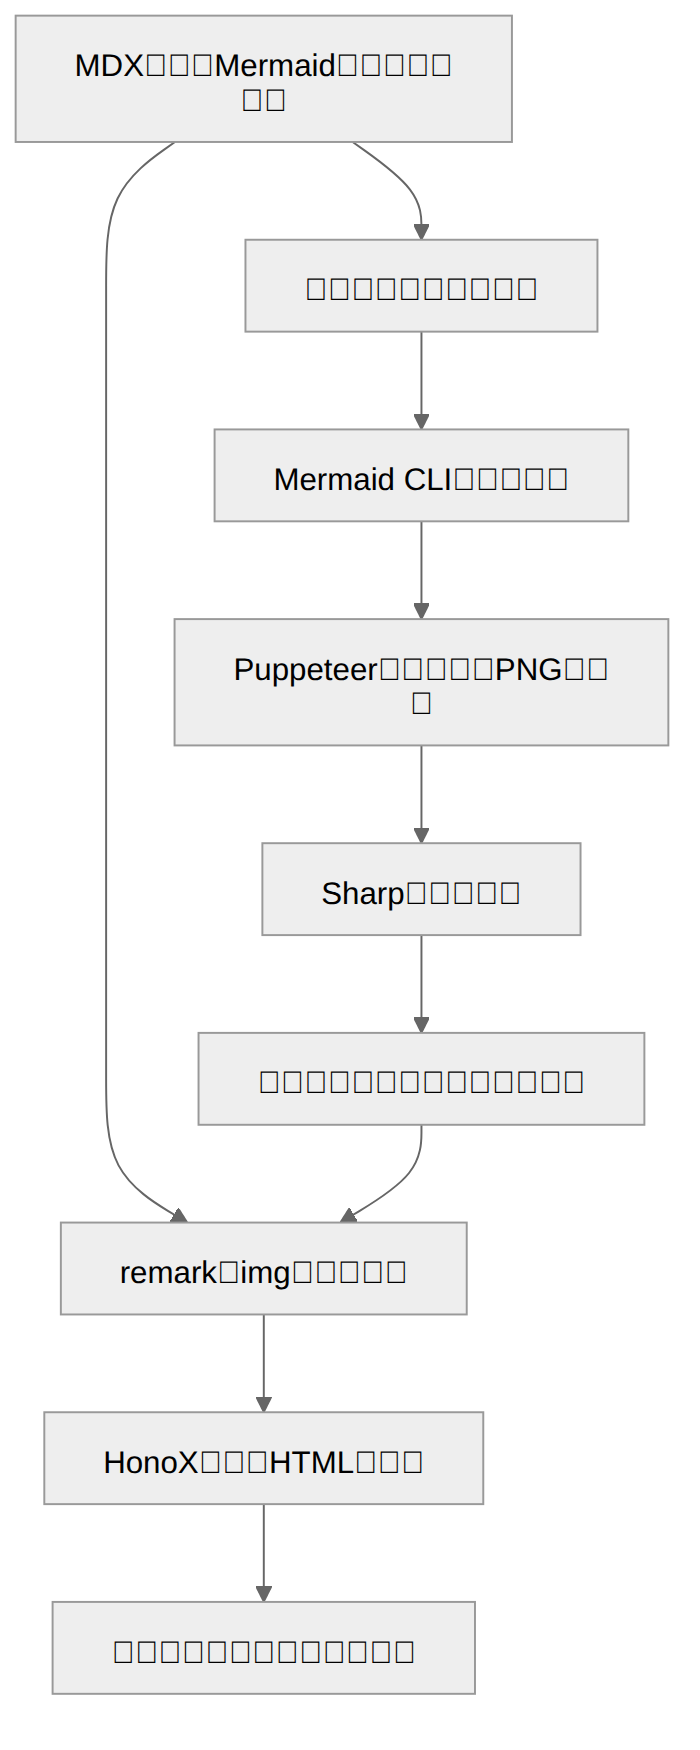
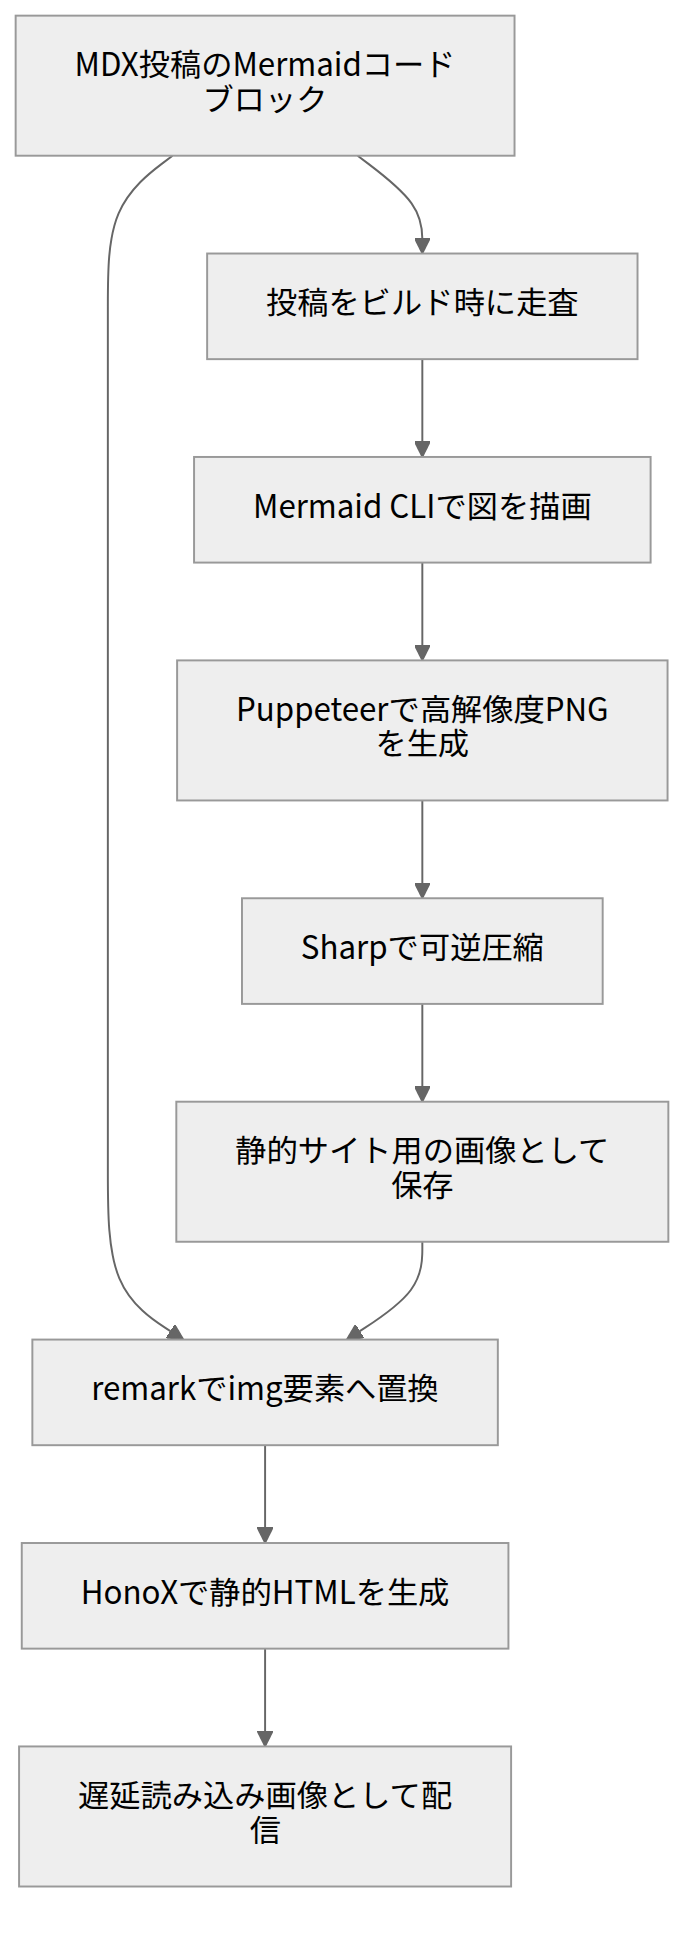
generate by honox ssg 2026/08/21 02:36:12

diff --git a/docs/posts/2026-08-21-post/index.html b/docs/posts/2026-08-21-post/index.html
@@ -1,6 +1,6 @@
 <!DOCTYPE html><html lang="ja"><head><meta charset="UTF-8"/><meta name="viewport" content="width=device-width, initial-scale=1.0"/><meta name="description" content="MDX投稿のMermaidコードブロックをSSGビルド時にPNGへ変換・可逆圧縮し、遅延読み込み画像として配信する仕組みと使い方を説明します。"/><meta property="og:title" content="Mermaid図のビルド時PNG出力に対応しました | GeroOf MyPage."/><meta property="og:description" content="MDX投稿のMermaidコードブロックをSSGビルド時にPNGへ変換・可逆圧縮し、遅延読み込み画像として配信する仕組みと使い方を説明します。"/><meta property="og:type" content="article"/><meta property="og:url" content="https://geroof.github.io/posts/2026-08-21-post/"/><meta property="og:site_name" content="GeroOf MyPage."/><meta property="og:locale" content="ja_JP"/><meta property="og:image" content="https://geroof.github.io/assets/blog/authors/og-image.svg"/><meta name="twitter:card" content="summary_large_image"/><meta name="twitter:title" content="Mermaid図のビルド時PNG出力に対応しました | GeroOf MyPage."/><meta name="twitter:description" content="MDX投稿のMermaidコードブロックをSSGビルド時にPNGへ変換・可逆圧縮し、遅延読み込み画像として配信する仕組みと使い方を説明します。"/><meta name="twitter:image" content="https://geroof.github.io/assets/blog/authors/og-image.svg"/><link rel="apple-touch-icon" sizes="180x180" href="/favicon/apple-touch-icon.png"/><link rel="icon" type="image/png" sizes="32x32" href="/favicon/favicon-32x32.png"/><link rel="icon" type="image/png" sizes="16x16" href="/favicon/favicon-16x16.png"/><link rel="manifest" href="/favicon/site.webmanifest"/><link rel="mask-icon" href="/favicon/safari-pinned-tab.svg" color="#000000"/><link rel="icon" href="/favicon.ico"/><link rel="shortcut icon" href="/favicon/favicon.ico"/><meta name="msapplication-TileColor" content="#000000"/><meta name="msapplication-config" content="/favicon/browserconfig.xml"/><meta name="theme-color" content="#000"/><link rel="alternate" type="application/rss+xml" href="/rss.xml"/><meta name="keywords" content="Mermaid,MDX,HonoX,SSG,PNG,画像最適化"/><link rel="canonical" href="https://geroof.github.io/posts/2026-08-21-post/"/><link href="/static/style-C5CUSrp0.css" rel="stylesheet"/><title>Mermaid図のビルド時PNG出力に対応しました | GeroOf MyPage.</title><meta name="google-site-verification" content="VG5yARpF3Tg_JtadQYHvqgpvUjtznlNHLKcnVRU5GkY"/><script type="application/ld+json">{"@context":"https://schema.org","@type":"WebSite","name":"GeroOf MyPage.","url":"https://geroof.github.io/","publisher":{"@type":"Person","name":"GeroOf","url":"https://geroof.github.io/about/","sameAs":["https://github.com/Geroof","https://twitter.com/Geroof","https://bsky.app/profile/geroof.bsky.social"]}}</script><script type="application/ld+json">{"@context":"https://schema.org","@type":"Article","headline":"Mermaid図のビルド時PNG出力に対応しました","image":"https://geroof.github.io/assets/blog/authors/og-image.svg","datePublished":"2026-08-21","author":[{"@type":"Person","name":"GeroOf","url":"https://geroof.github.io/about/","sameAs":["https://github.com/Geroof","https://twitter.com/Geroof","https://bsky.app/profile/geroof.bsky.social"]}]}</script><script async="" src="https://www.googletagmanager.com/gtag/js?id=G-WXV3Q4JFEX"></script></head><body> <script>window.dataLayer = window.dataLayer || [];function gtag(){dataLayer.push(arguments);}gtag('js', new Date());gtag('config', 'G-WXV3Q4JFEX');</script><div class="container mx-auto p-2 prose prose-neutral prose-sm md:prose:sm lg:prose-lg xl:prose-xl"><header><nav aria-label="Site navigation"><div><p class="!text-5xl !font-extrabold !mt-0 !mb-10 !leading-tight"><a href="/">GeroOf MyPage.</a></p></div><div class="flex items-center h-8"><img class="w-6 h-6 rounded-full mr-2" src="/assets/blog/authors/geroof.png" alt="GeroOfのプロフィール画像" width="24" height="24"/><span class="text-lg font-bold">GeroOf</span></div></nav></header><main><div><section><div><h1 class="!text-3xl !font-bold !mt-10 !mb-4">Mermaid図のビルド時PNG出力に対応しました</h1></div><div><p class="!font-bold !text-base !mt-6 !mb-2"><time dateTime="2026-08-21">2026-08-21</time></p></div></section><article><p>このサイトでは、MDX投稿のMermaidコードブロックを静的サイト生成（SSG）のビルド中にPNGへ変換し、静的HTMLの <code>img</code> 要素として出力します。</p>
 <h2>アーキテクチャ</h2>
-<img src="/assets/img/2026-08-21-post-1.png" alt="Mermaidコードブロックをビルド時にPNGへ変換し、静的HTMLへ組み込む処理の流れ" class="mermaid-diagram" decoding="async" height="1750" loading="lazy" width="700"/>
+<img src="/assets/img/2026-08-21-post-1.png" alt="Mermaidコードブロックをビルド時にPNGへ変換し、静的HTMLへ組み込む処理の流れ" class="mermaid-diagram" decoding="async" height="1946" loading="lazy" width="700"/>
 <h2>出力仕様</h2>
 <table><thead><tr><th>項目</th><th>仕様</th></tr></thead><tbody><tr><td>対象</td><td>ブログ投稿用のMarkdown、MDXファイル</td></tr><tr><td>記法</td><td>言語名が <code>mermaid</code> のコードブロック</td></tr><tr><td>出力先</td><td>静的サイト用の画像ディレクトリ</td></tr><tr><td>ファイル名</td><td><code>{投稿ファイル名から拡張子を除いた文字列}-{1から始まる図番号}.png</code></td></tr><tr><td>HTML</td><td><code>img</code> 要素に <code>loading=&quot;lazy&quot;</code>、<code>decoding=&quot;async&quot;</code>、代替テキスト、画像寸法を付与</td></tr><tr><td>ブラウザ側の処理</td><td>Mermaid用JavaScriptは不要</td></tr></tbody></table>
 <h2>画像品質と安全性</h2>
